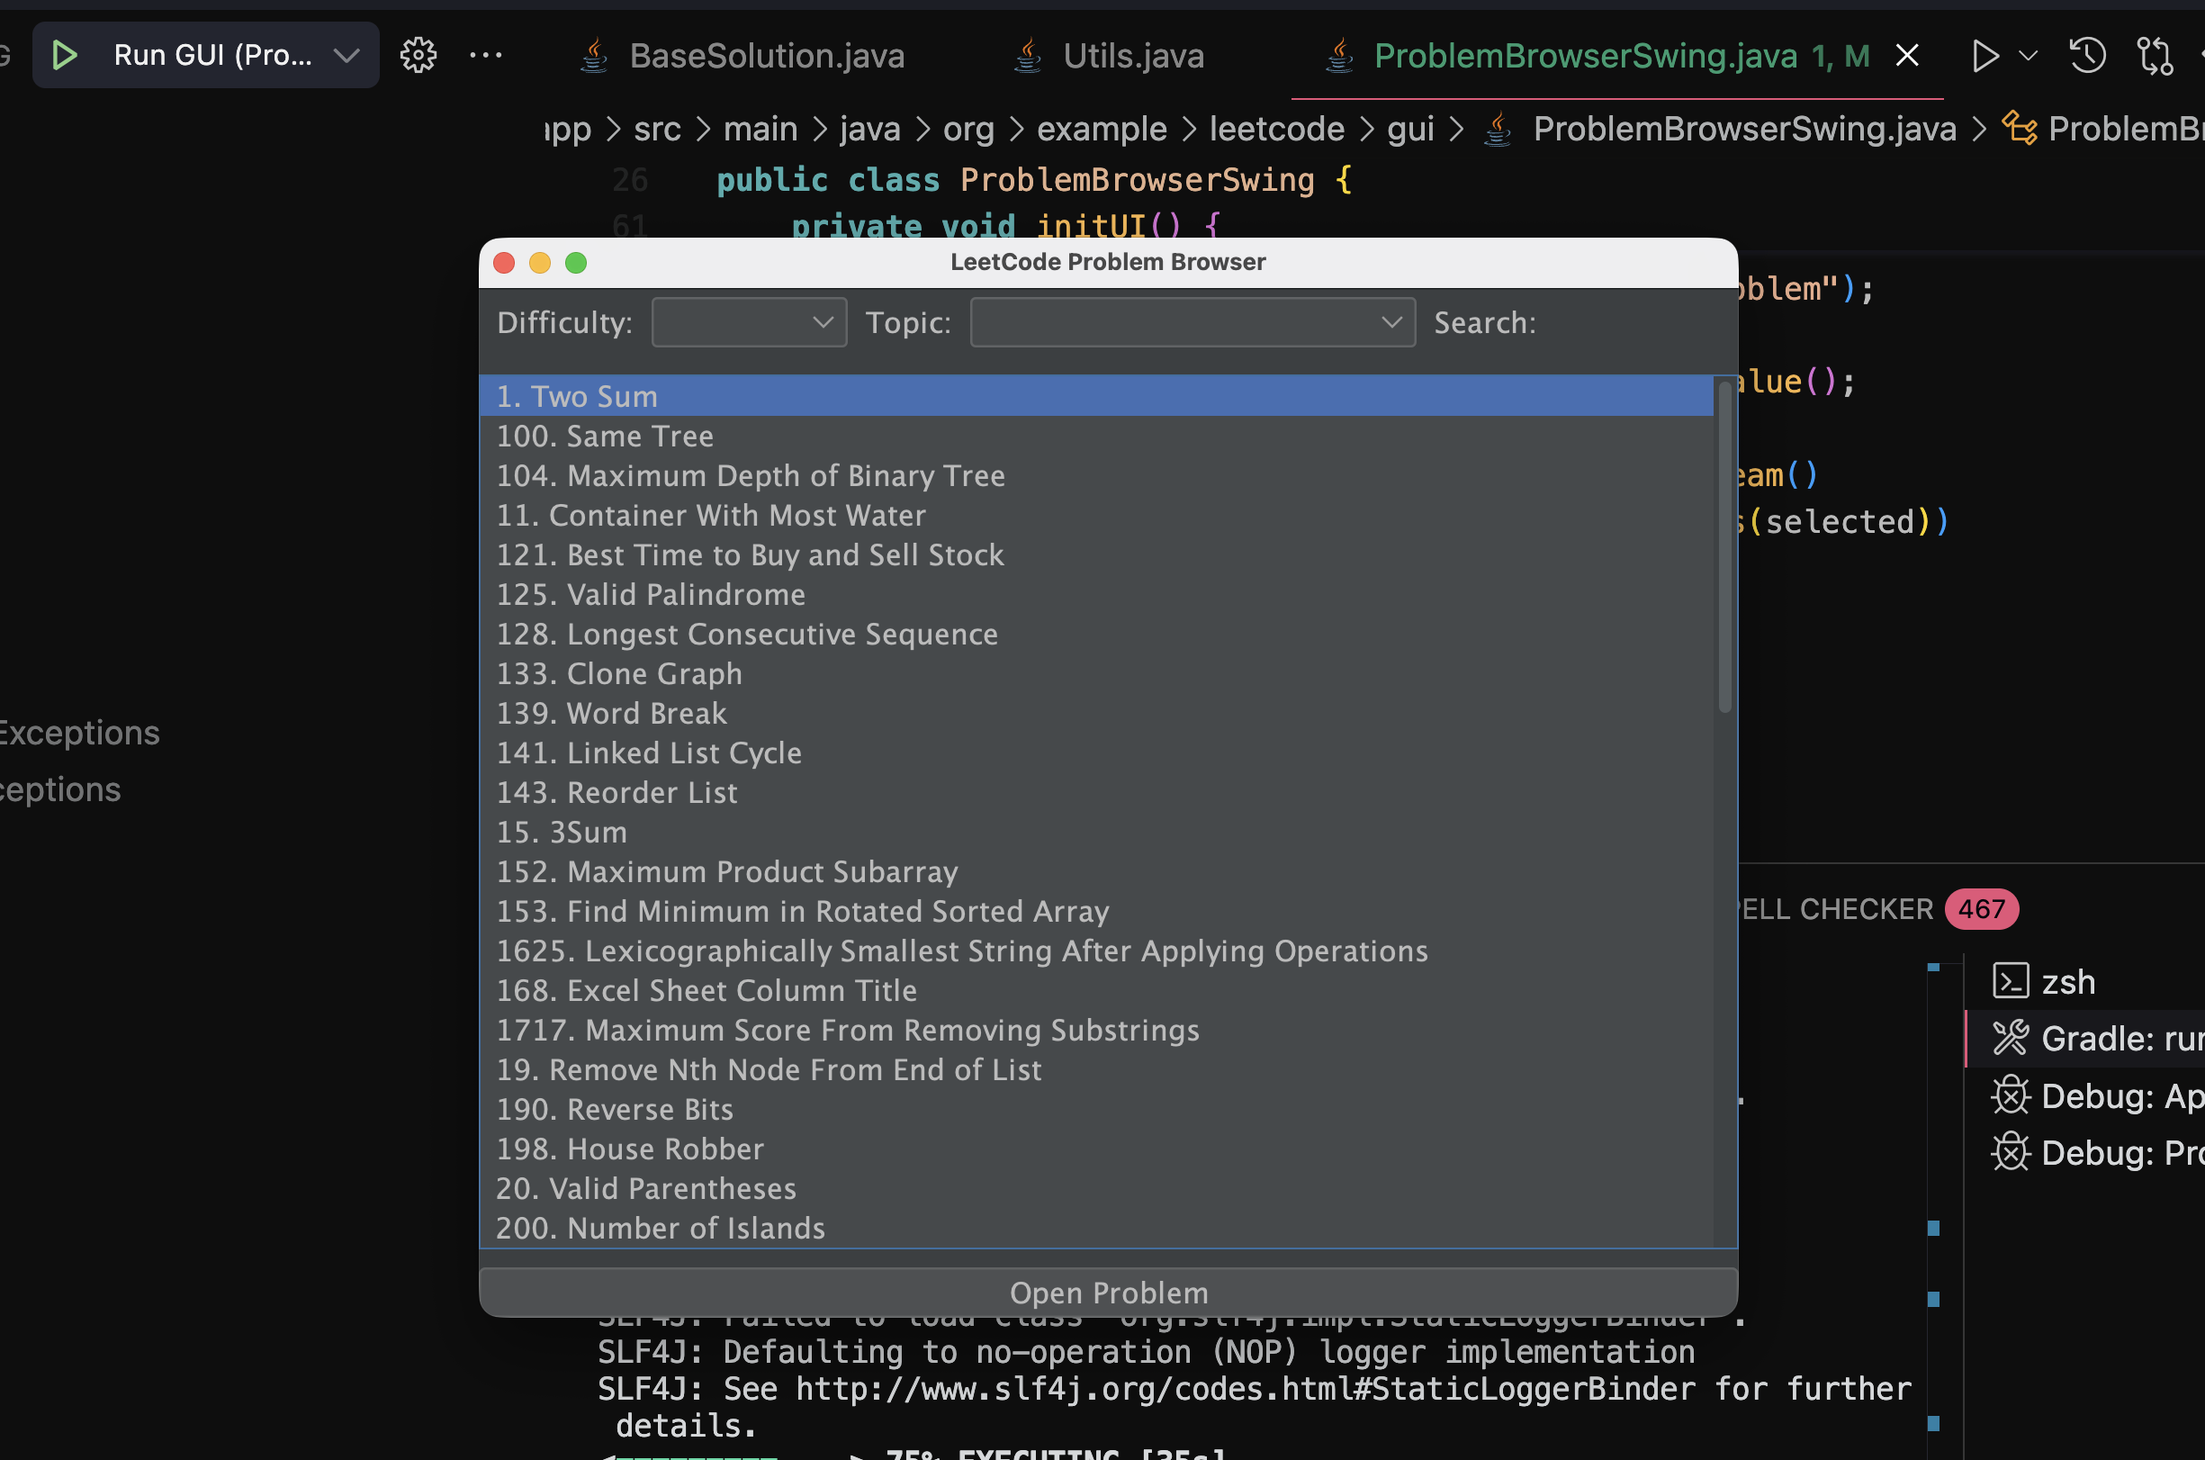
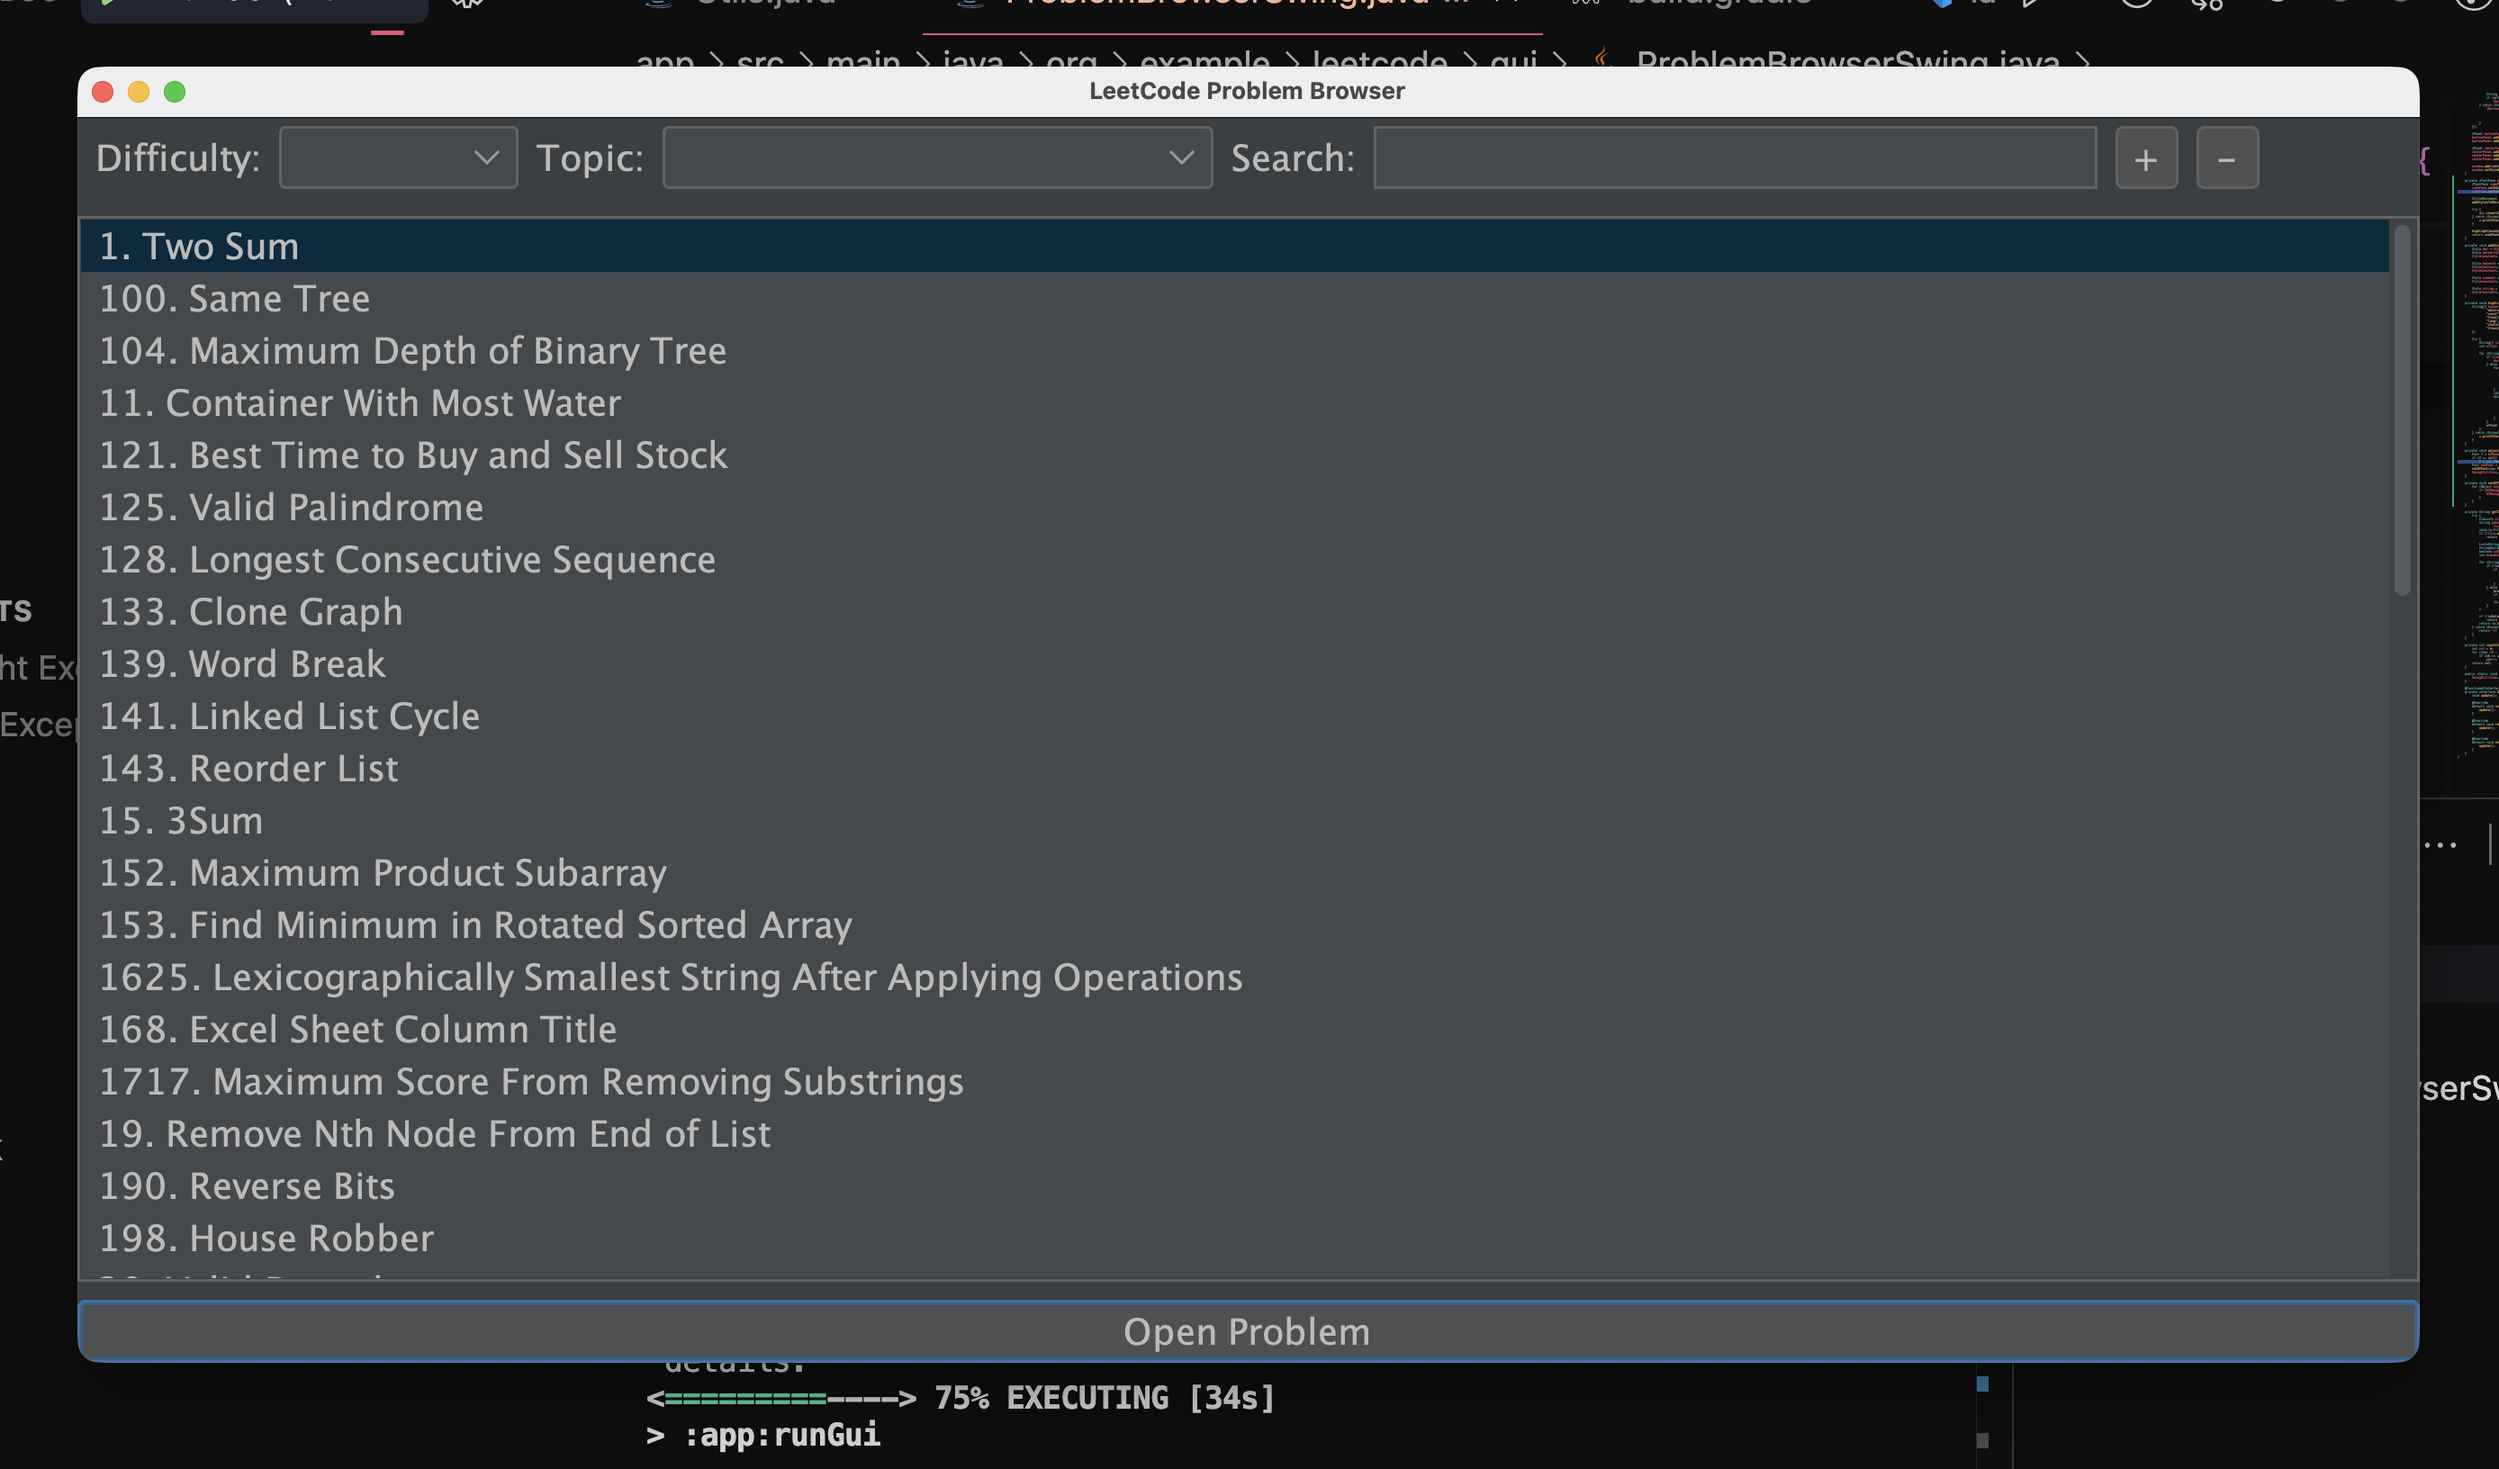
feat: update GUI

diff --git a/Java/app/src/main/java/org/example/leetcode/gui/ProblemBrowserSwing.java b/Java/app/src/main/java/org/example/leetcode/gui/ProblemBrowserSwing.java
@@ -8,7 +8,7 @@ import org.reflections.Reflections;
 import javax.swing.*;
 import javax.swing.border.EmptyBorder;
 import javax.swing.plaf.FontUIResource;
-
+import javax.swing.text.*;
 import java.awt.*;
 import java.io.ByteArrayOutputStream;
 import java.io.PrintStream;
@@ -58,20 +58,14 @@ public class ProblemBrowserSwing {
     }
 
     private void initUI() {
-        // Dark theme
         try {
             UIManager.setLookAndFeel(new FlatDarkLaf());
         } catch (Exception e) {
             e.printStackTrace();
         }
 
-        // Increase default font size for all Swing components
         FontUIResource f = new FontUIResource("Segoe UI", Font.PLAIN, 16);
-        for (Object key : UIManager.getDefaults().keySet()) {
-            if (UIManager.get(key) instanceof FontUIResource) {
-                UIManager.put(key, f);
-            }
-        }
+        setUIFont(f);
 
         frame = new JFrame("LeetCode Problem Browser");
         frame.setDefaultCloseOperation(JFrame.EXIT_ON_CLOSE);
@@ -95,12 +89,20 @@ public class ProblemBrowserSwing {
         searchField = new JTextField(20);
         searchField.getDocument().addDocumentListener((SimpleDocumentListener) this::updateList);
 
+        // Font size buttons
+        JButton increaseFontBtn = new JButton("+");
+        JButton decreaseFontBtn = new JButton("-");
+        increaseFontBtn.addActionListener(e -> adjustFontSize(2));
+        decreaseFontBtn.addActionListener(e -> adjustFontSize(-2));
+
         filterPanel.add(new JLabel("Difficulty:"));
         filterPanel.add(difficultyFilter);
         filterPanel.add(new JLabel("Topic:"));
         filterPanel.add(topicFilter);
         filterPanel.add(new JLabel("Search:"));
         filterPanel.add(searchField);
+        filterPanel.add(increaseFontBtn);
+        filterPanel.add(decreaseFontBtn);
 
         listModel = new DefaultListModel<>();
         problemList = new JList<>(listModel);
@@ -169,11 +171,8 @@ public class ProblemBrowserSwing {
 
         window.add(topPanel, BorderLayout.NORTH);
 
-        JTextArea sourceArea = new JTextArea(getInnerSolutionSource(problem));
-        sourceArea.setLineWrap(true);
-        sourceArea.setWrapStyleWord(true);
-        sourceArea.setEditable(false);
-        JScrollPane sourceScroll = new JScrollPane(sourceArea);
+        JTextPane sourcePane = createCodePane(getInnerSolutionSource(problem));
+        JScrollPane sourceScroll = new JScrollPane(sourcePane);
         sourceScroll.setPreferredSize(new Dimension(650, 200));
 
         JButton runButton = new JButton("Run Solution");
@@ -226,6 +225,98 @@ public class ProblemBrowserSwing {
 
         window.add(centerPanel, BorderLayout.CENTER);
         window.setVisible(true);
+    }
+
+    private JTextPane createCodePane(String code) {
+        JTextPane codePane = new JTextPane();
+        codePane.setEditable(false);
+        codePane.setFont(new Font("Consolas", Font.PLAIN, 14));
+
+        StyledDocument doc = codePane.getStyledDocument();
+        addStylesToDocument(doc);
+
+        try {
+            doc.insertString(0, code, doc.getStyle("default"));
+        } catch (Exception e) {
+            e.printStackTrace();
+        }
+
+        highlightJavaSyntax(doc, code);
+        return codePane;
+    }
+
+    private void addStylesToDocument(StyledDocument doc) {
+        Style def = StyleContext.getDefaultStyleContext().getStyle(StyleContext.DEFAULT_STYLE);
+        Style defaultStyle = doc.addStyle("default", def);
+        StyleConstants.setForeground(defaultStyle, Color.WHITE);
+
+        Style keyword = doc.addStyle("keyword", null);
+        StyleConstants.setForeground(keyword, Color.CYAN);
+        StyleConstants.setBold(keyword, true);
+
+        Style comment = doc.addStyle("comment", null);
+        StyleConstants.setForeground(comment, Color.GREEN.darker());
+
+        Style string = doc.addStyle("string", null);
+        StyleConstants.setForeground(string, Color.ORANGE);
+    }
+
+    private void highlightJavaSyntax(StyledDocument doc, String code) {
+        String[] keywords = new String[] {
+                "abstract", "assert", "boolean", "break", "byte", "case", "catch", "char", "class",
+                "const", "continue", "default", "do", "double", "else", "enum", "extends", "final",
+                "finally", "float", "for", "if", "implements", "import", "instanceof", "int", "interface",
+                "long", "native", "new", "package", "private", "protected", "public", "return", "short",
+                "static", "strictfp", "super", "switch", "synchronized", "this", "throw", "throws",
+                "transient", "try", "void", "volatile", "while"
+        };
+
+        try {
+            String[] lines = code.split("\n");
+            int offset = 0;
+
+            for (String line : lines) {
+                if (line.trim().startsWith("//")) {
+                    doc.setCharacterAttributes(offset, line.length(), doc.getStyle("comment"), false);
+                } else {
+                    for (String kw : keywords) {
+                        int idx = line.indexOf(kw);
+                        while (idx >= 0) {
+                            doc.setCharacterAttributes(offset + idx, kw.length(), doc.getStyle("keyword"), false);
+                            idx = line.indexOf(kw, idx + kw.length());
+                        }
+                    }
+                    int start = line.indexOf("\"");
+                    while (start >= 0) {
+                        int end = line.indexOf("\"", start + 1);
+                        if (end < 0)
+                            break;
+                        doc.setCharacterAttributes(offset + start, end - start + 1, doc.getStyle("string"), false);
+                        start = line.indexOf("\"", end + 1);
+                    }
+                }
+                offset += line.length() + 1;
+            }
+        } catch (Exception e) {
+            e.printStackTrace();
+        }
+    }
+
+    private void adjustFontSize(int delta) {
+        Font f = UIManager.getFont("Label.font");
+        if (f == null)
+            f = new Font("Segoe UI", Font.PLAIN, 16);
+        Font newFont = f.deriveFont((float) (f.getSize() + delta));
+        setUIFont(new FontUIResource(newFont));
+        SwingUtilities.updateComponentTreeUI(frame);
+    }
+
+    private void setUIFont(FontUIResource f) {
+        for (Object key : UIManager.getDefaults().keySet()) {
+            if (UIManager.get(key) instanceof FontUIResource) {
+                UIManager.put(key, f);
+            }
+        }
     }
 
     private String getInnerSolutionSource(BaseSolution problem) {
